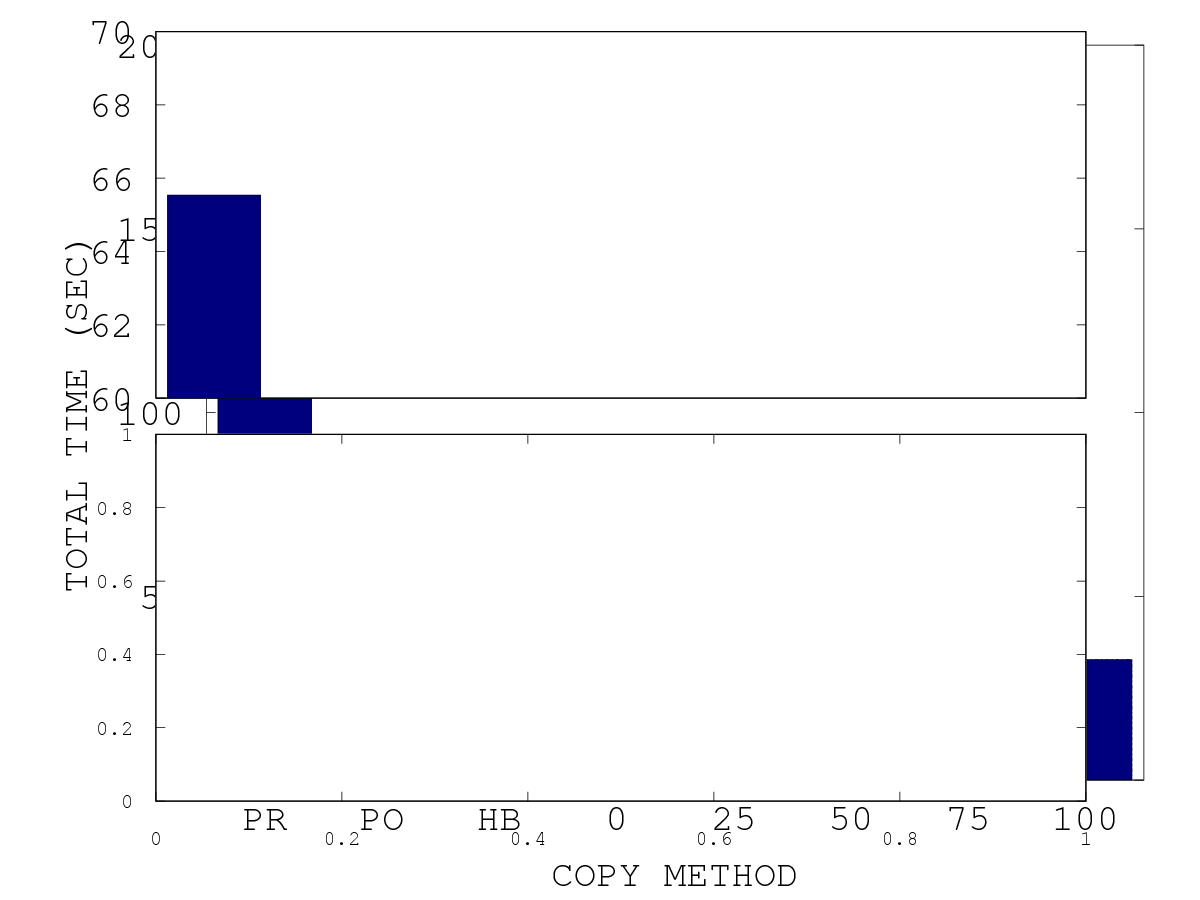
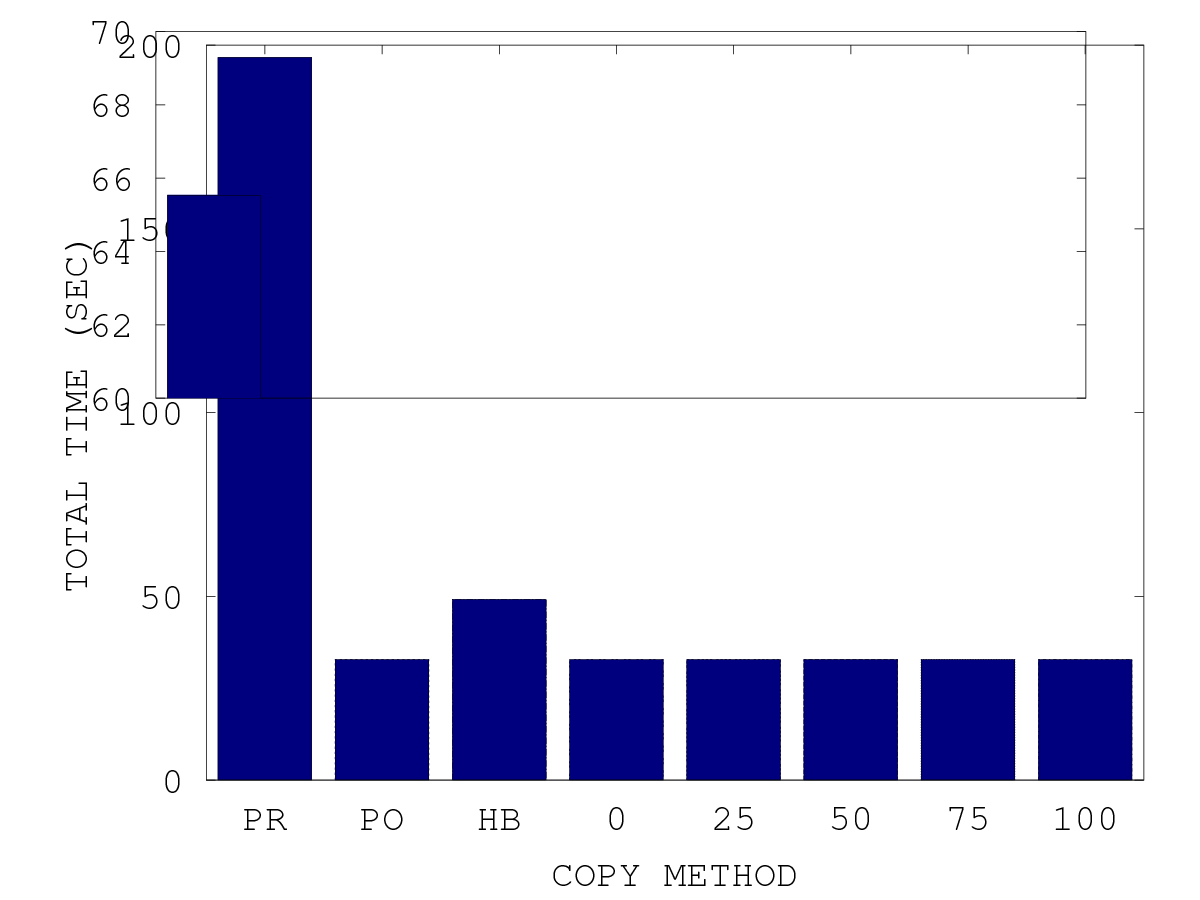
basic_break.m

Changed region(s): [[0.1233, 0.0311, 0.925, 0.9022]]

diff --git a/basic_break.m b/basic_break.m
@@ -317,7 +317,7 @@ clf;
 p0 = get (gca, 'position');
 delete(gcf);
 
-a1 = axes ('position', [p0(1) p0(2) p0(3) p0(4)/2]);
+%a1 = axes ('position', [p0(1) p0(2) p0(3) p0(4)/2]);
 
 %bar(A(:,2))
 %bar(xintervals, A(:,2))
